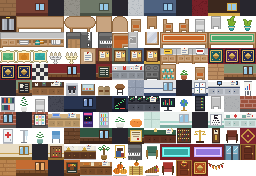
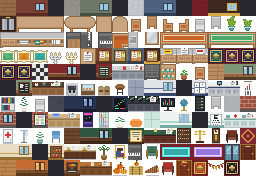
Case 2 mat: dark charcoal runner, same elegant gold frame.

Changed region(s): [[0.875, 0.9091, 0.9375, 1.0]]

diff --git a/app/tower/lobbyMap.ts b/app/tower/lobbyMap.ts
@@ -16,8 +16,8 @@ const T = {
   counter: 32, counterPapers: 33, counterFiles: 35, plant: 30, plantSmall: 31,
   painting: 49, bookshelf: 39, water: 40,
   chairDown: 24, tableRound: 23, chairLeft: 26, chairRight: 27, candelabra: 52,
-  // Elevator mats: gold-framed runners (tools/art/elegant_mats.py).
-  matTutorial: 61, matDaily: 62, mat1: 63, mat2: 64, mat3: 65,
+  // Elevator / door mats: gold-framed runners (tools/art/elegant_mats.py).
+  matTutorial: 61, matDaily: 62, mat1: 63, mat2: 64, mat3: 65, matCase2: 174,
   // Front doors (tools/art/lobby_doors.py).
   doorGlass: 158, doorWood: 159,
   // The seasonal door and its mat (tools/art/harvest_tiles.py).
@@ -241,7 +241,7 @@ export function buildLobby(
   if (opts?.case2Door) {
     walls[at(CASE2_X, CASE2_Y)] = -1;
     ground[at(CASE2_X, CASE2_Y)] = T.doorWood;
-    ground[at(CASE2_X - 1, CASE2_Y)] = T.matDaily;
+    ground[at(CASE2_X - 1, CASE2_Y)] = T.matCase2;
     // Clear any furniture that would sit on the mat.
     decor[at(CASE2_X - 1, CASE2_Y)] = -1;
     const matIdx = at(CASE2_X - 1, CASE2_Y);

diff --git a/tools/art/elegant_mats.py b/tools/art/elegant_mats.py
@@ -1,8 +1,8 @@
-"""Lobby elevator mats, one per elevator (Tutorial, Floors 1–3, Daily): a small runner with a dark edge,
-a gold frame with corner studs and a gold diamond in the middle, laid over the lobby carpet. The engine
-puts each elevator's name on its door, so the mats carry no letters.
+"""Lobby mats (Tutorial, Floors 1–3, Daily, Case 2): a small runner with a dark edge, a gold frame with
+corner studs and a gold diamond in the middle, laid over the lobby carpet. The engine puts each
+door's name on its mat as text, so the tiles carry no letters.
 
-Redraws mat_tutorial, mat_daily and mat_1..3 in place (same indexes; nothing moves).
+Redraws mat_tutorial, mat_daily, mat_1..3 and mat_case2 in place (same indexes when they already exist).
 
     python3 -I tools/art/elegant_mats.py public/tiles/plumpurse.png app/floor/maps/tiles.json
 """
@@ -66,7 +66,16 @@ def main() -> None:
     teal: Color = (26, 92, 98, 255)
     navy: Color = (30, 44, 86, 255)
     plum: Color = (76, 38, 96, 255)
-    for name, field in [("mat_tutorial", teal), ("mat_1", navy), ("mat_2", navy), ("mat_3", navy), ("mat_daily", plum)]:
+    # Case 2 (Fatwallet tease): dark charcoal-ink, still gold-framed like the others.
+    charcoal: Color = (28, 32, 42, 255)
+    for name, field in [
+        ("mat_tutorial", teal),
+        ("mat_1", navy),
+        ("mat_2", navy),
+        ("mat_3", navy),
+        ("mat_daily", plum),
+        ("mat_case2", charcoal),
+    ]:
         sheet = append_or_replace(sheet, catalog, name, mat(floor_tile, field), "walk")
 
     sheet.save(sheet_path)
